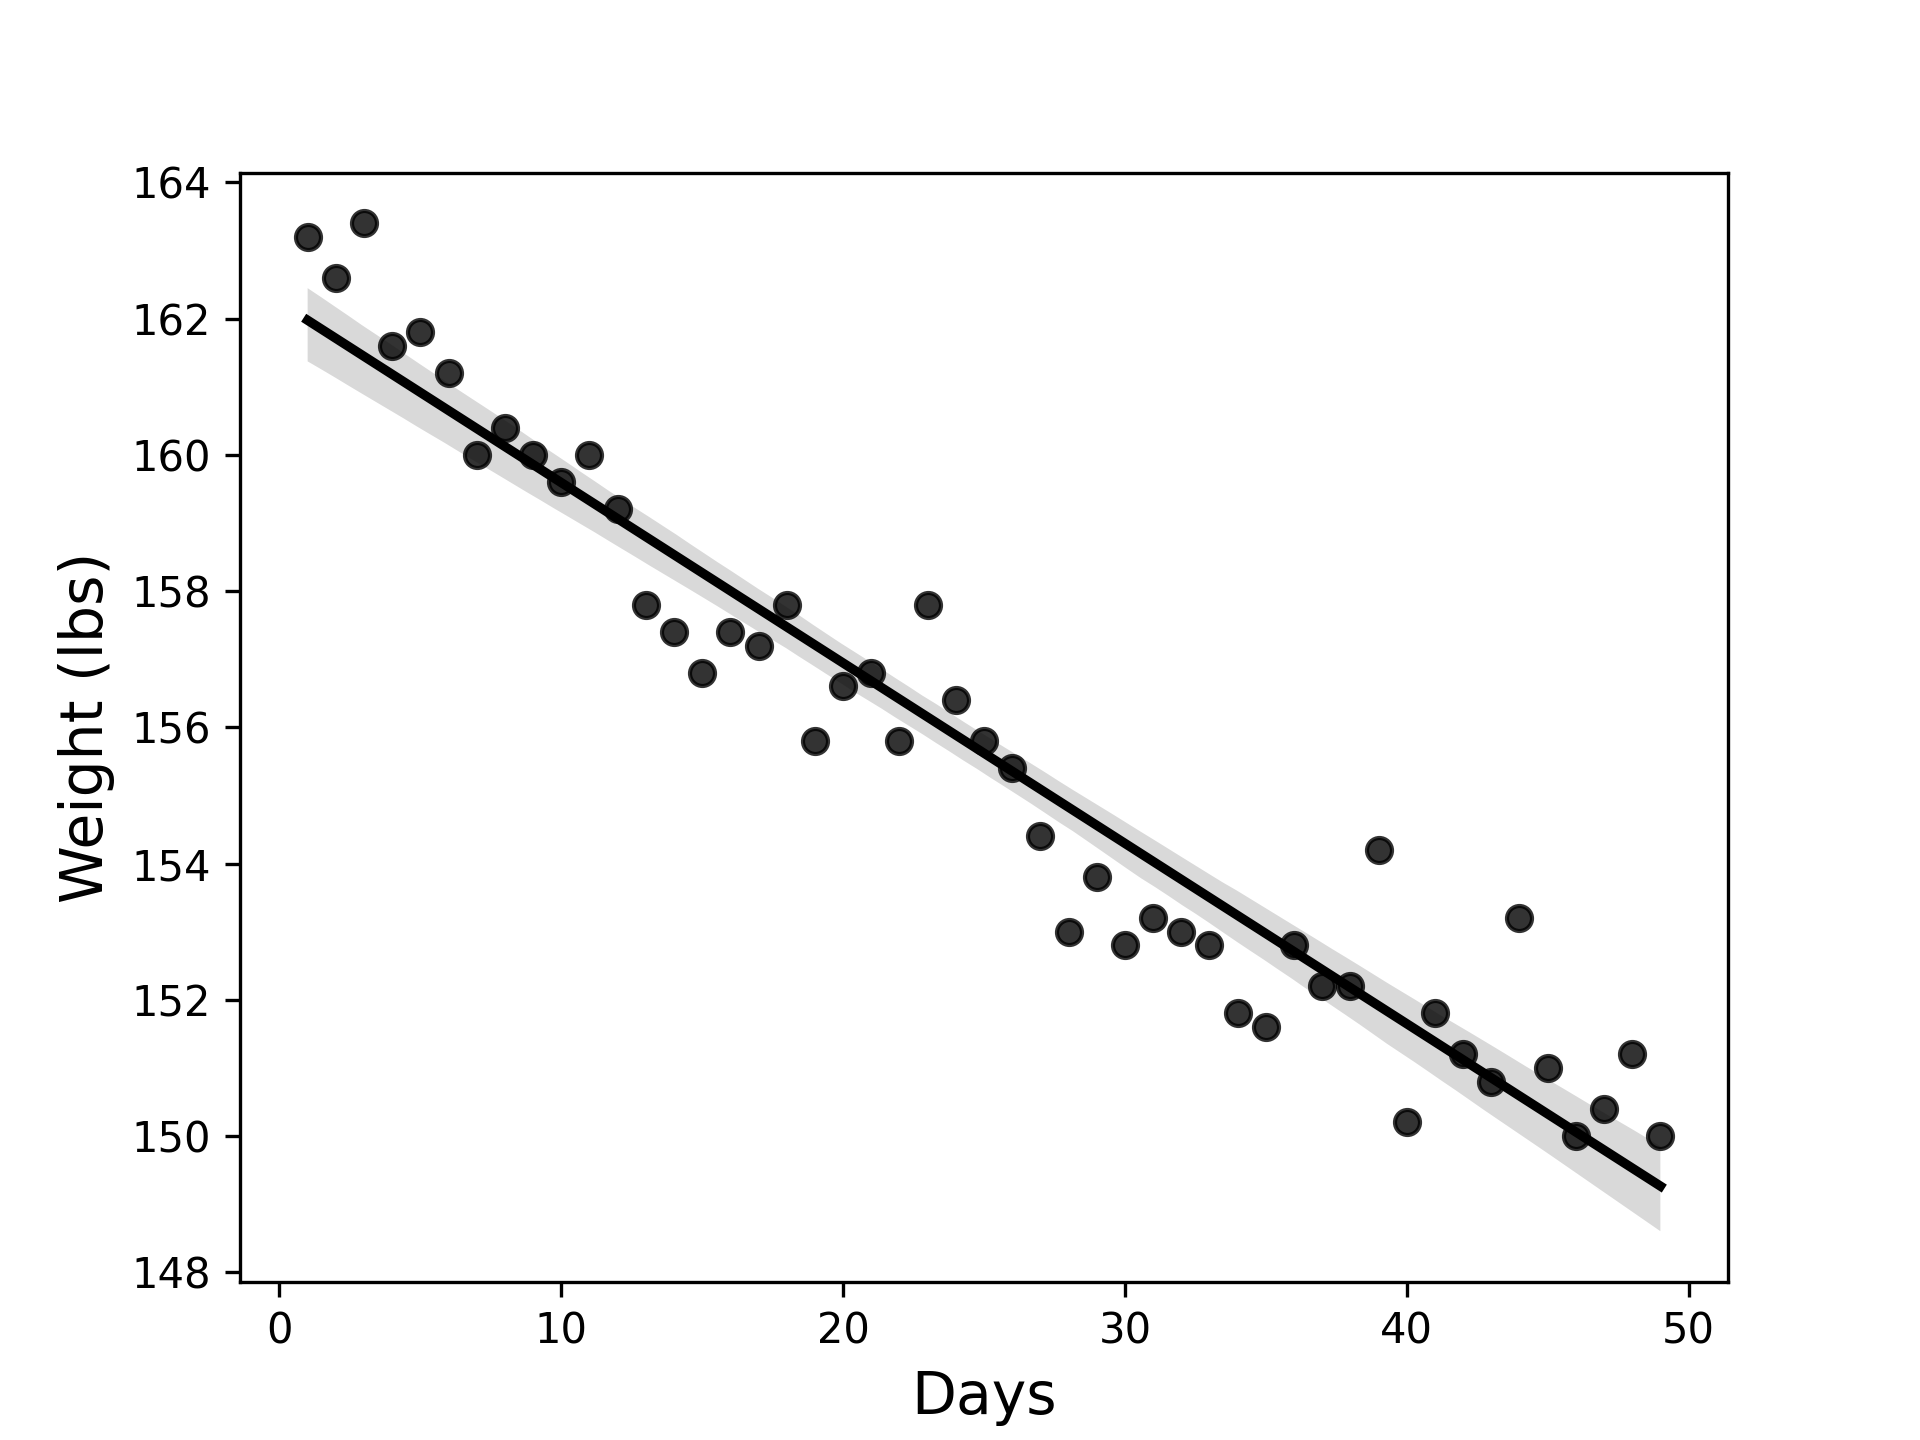
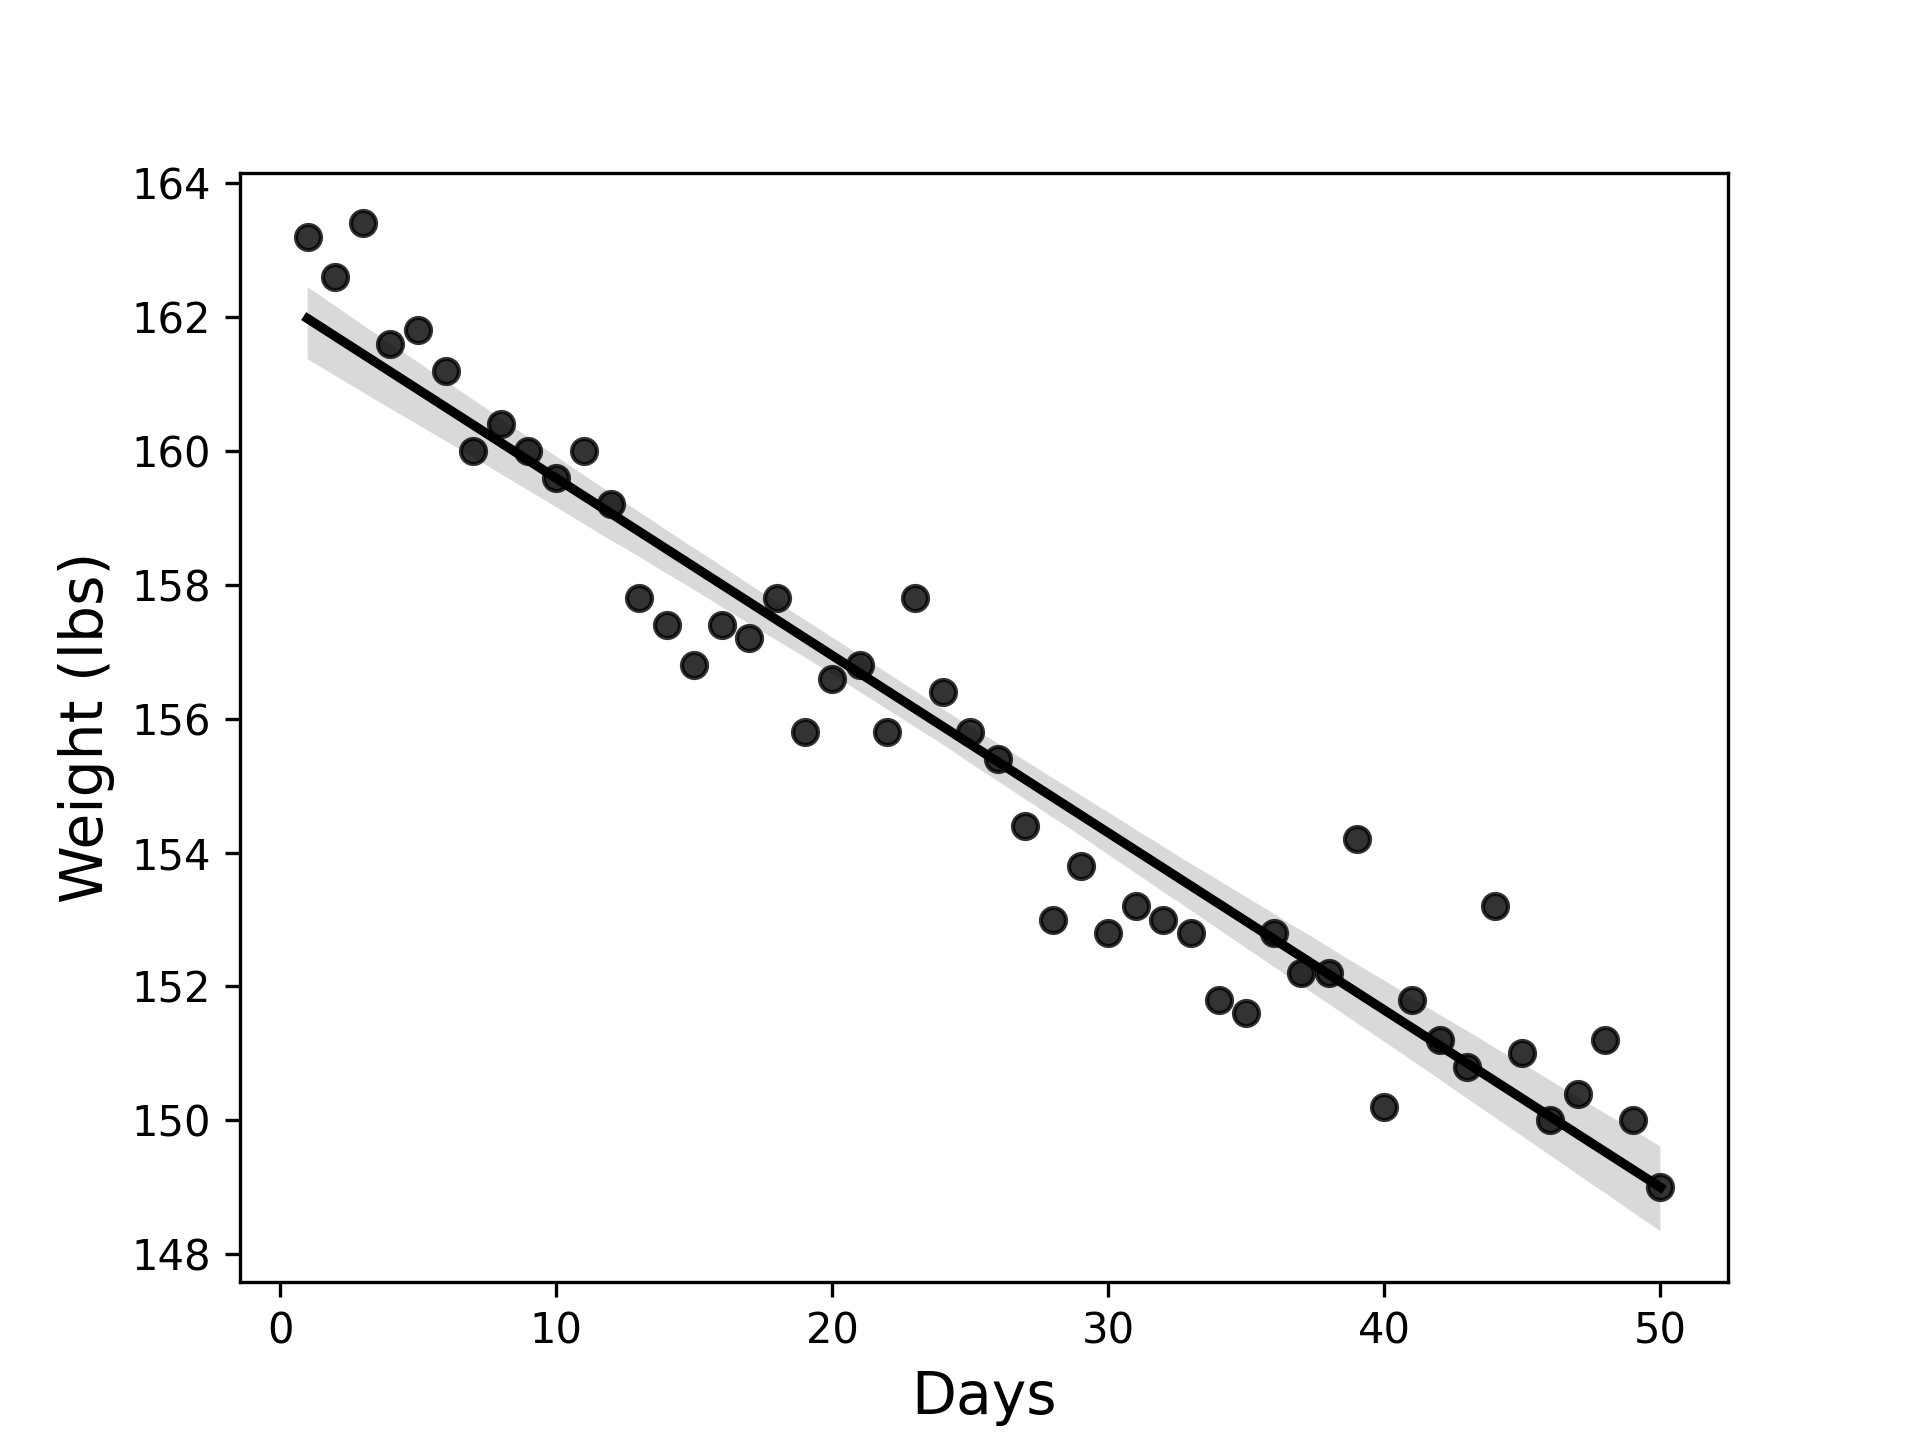
Updated weight.py and weight.png

diff --git a/Weight.py b/Weight.py
@@ -7,11 +7,11 @@ import seaborn as sns
 # Creates an array of elapsed days and assigns it to days_elapsed
 days_elapsed = np.array([1, 2, 3 ,4, 5, 6, 7, 8, 9, 10,11,12,13, 14,15,16,17,18,
                          19, 20,21,22,23,24,25,26,27,28,29,30,31,32,33,34,35,36,37,38,39,
-                         40,41,42,43,44,45,46,47,48,49]).reshape(-1,1)
+                         40,41,42,43,44,45,46,47,48,49,50]).reshape(-1,1)
 weight = np.array([163.2, 162.6, 163.4, 161.6, 161.8, 161.2, 160.0, 160.4, 160.0, 159.6,160.0,159.2,157.8, 157.4,156.8,157.4,
                    157.2, 157.8,155.8, 156.6,156.8,155.8,157.8,156.4,155.8,155.4,154.4,153.0,153.8,152.8,153.2,
                    153.0,152.8,151.8,151.6,152.8,152.2,152.2,154.2,150.2, 151.8,151.2,150.8,153.2,
-                   151.0,150.0,150.4,151.2,150.0])
+                   151.0,150.0,150.4,151.2,150.0,149.0])
 
 # Instantiates a LinearRegression model and fits it to the above arrays
 model = sklearn.linear_model.LinearRegression().fit(days_elapsed,weight)
